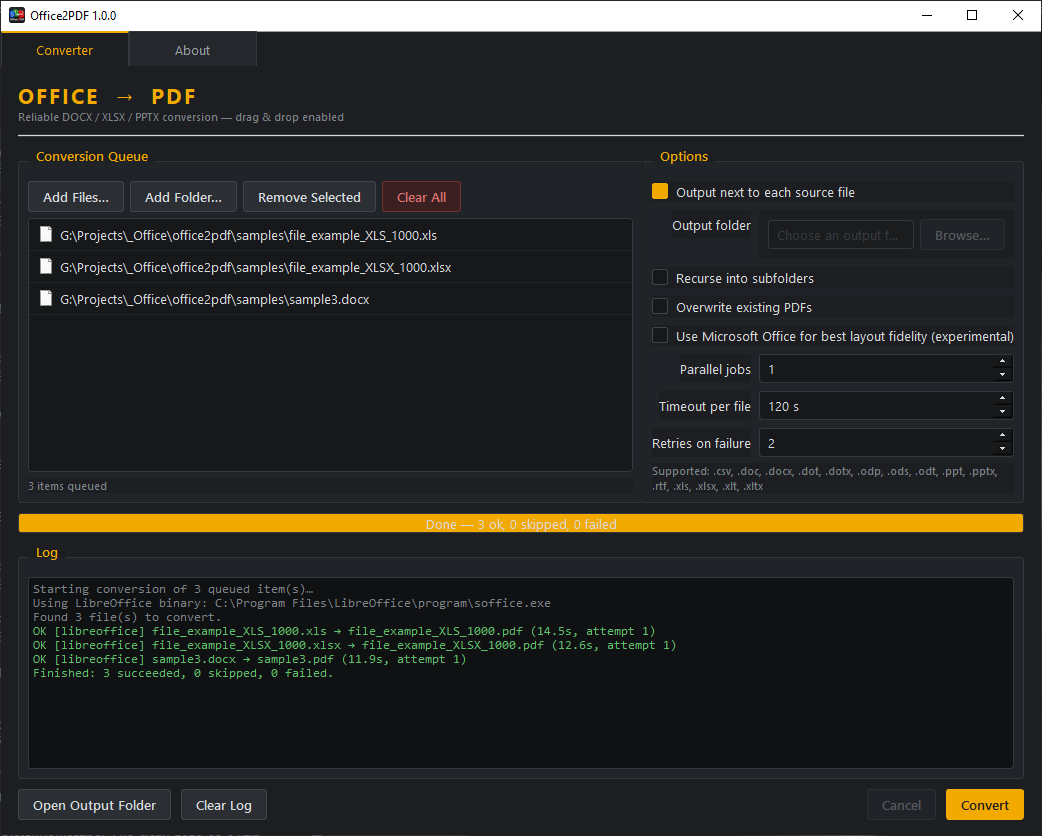
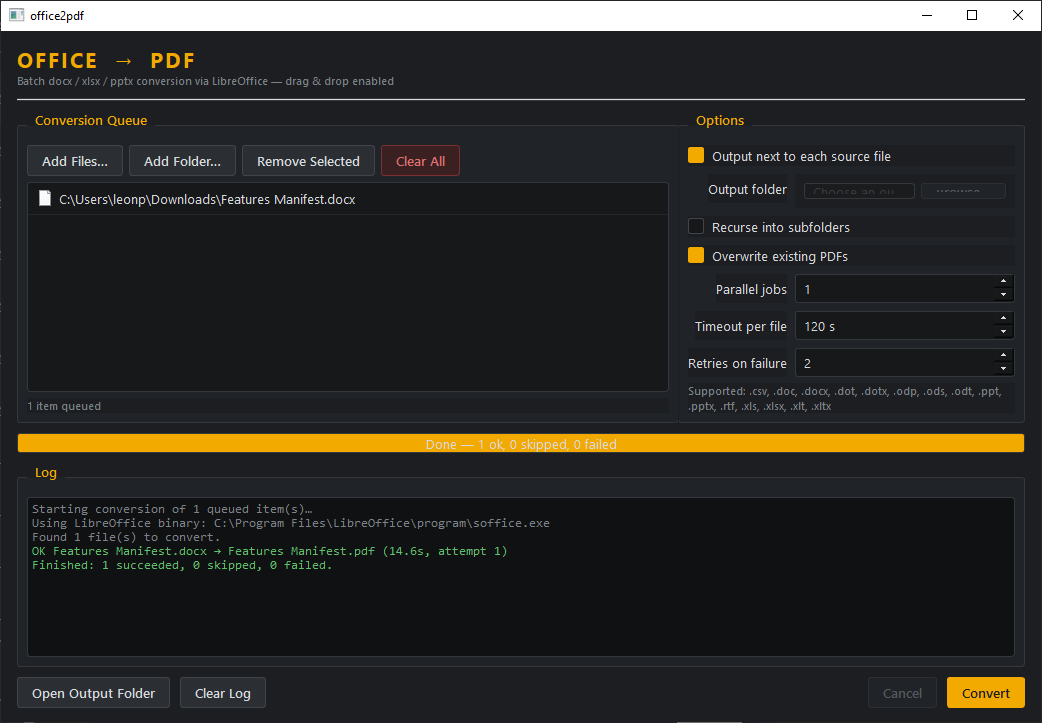
Add files via upload

diff --git a/package_source.py b/package_source.py
@@ -1,5 +1,5 @@
 #!/usr/bin/env python3
-# Copyright (C) 2026 Leon
+# Copyright (C) 2026 Leon Priest
 # SPDX-License-Identifier: GPL-3.0-or-later
 
 """Create the corresponding-source archive shipped with Office2PDF releases."""
@@ -13,7 +13,11 @@ from zipfile import ZIP_DEFLATED, ZipFile
 from version_info import APP_VERSION
 
 PROJECT_ROOT = Path(__file__).resolve().parent
-SOURCE_PATHS = (
+
+# Root-level source, build, legal, and user-facing files that are required
+# for a complete corresponding-source release.
+SOURCE_FILES = (
+    ".gitignore",
     "gui.py",
     "office2pdf.py",
     "native_office_worker.py",
@@ -32,11 +36,37 @@ SOURCE_PATHS = (
     "THIRD_PARTY_NOTICES.txt",
     "SOURCE_OFFER.txt",
     "README.md",
-    "README_cli.md",
     "CHANGELOG.md",
-    "PROFESSIONAL_RELEASE.md",
-    "assets/office2pdf.ico",
 )
+
+# These directories are intentionally recursive so reorganising documentation
+# or adding tests/assets does not require updating a brittle file manifest.
+SOURCE_DIRECTORIES = (
+    "assets",
+    "docs",
+    "tests",
+)
+
+
+def _iter_source_files() -> list[Path]:
+    files: list[Path] = []
+
+    for relative in SOURCE_FILES:
+        source = PROJECT_ROOT / relative
+        if not source.is_file():
+            raise FileNotFoundError(f"required source file missing: {relative}")
+        files.append(source)
+
+    for relative in SOURCE_DIRECTORIES:
+        directory = PROJECT_ROOT / relative
+        if not directory.is_dir():
+            raise FileNotFoundError(f"required source directory missing: {relative}")
+        files.extend(path for path in directory.rglob("*") if path.is_file())
+
+    return sorted(
+        set(files),
+        key=lambda path: path.relative_to(PROJECT_ROOT).as_posix().casefold(),
+    )
 
 
 def create_source_archive(output: Path) -> Path:
@@ -45,15 +75,9 @@ def create_source_archive(output: Path) -> Path:
     root_name = f"Office2PDF-{APP_VERSION}-source"
 
     with ZipFile(output, "w", compression=ZIP_DEFLATED, compresslevel=9) as archive:
-        for relative in SOURCE_PATHS:
-            source = PROJECT_ROOT / relative
-            if not source.is_file():
-                raise FileNotFoundError(f"required source file missing: {relative}")
+        for source in _iter_source_files():
+            relative = source.relative_to(PROJECT_ROOT).as_posix()
             archive.write(source, f"{root_name}/{relative}")
-
-        tests_dir = PROJECT_ROOT / "tests"
-        for source in sorted(tests_dir.glob("test_*.py"), key=lambda p: p.name.casefold()):
-            archive.write(source, f"{root_name}/tests/{source.name}")
 
     return output
 

diff --git a/tests/test_professional_release.py b/tests/test_professional_release.py
@@ -24,10 +24,14 @@ class ProfessionalReleaseTests(unittest.TestCase):
         self.assertEqual(version_info.APP_VERSION_TUPLE, (1, 0, 0, 0))
         self.assertEqual(version_info.SPLASH_DURATION_MS, 5000)
         self.assertEqual(version_info.APP_LICENSE_ID, "GPL-3.0-or-later")
+        self.assertEqual(version_info.APP_AUTHOR, "Leon Priest")
+        self.assertEqual(version_info.APP_COPYRIGHT, "Copyright © 2026 Leon Priest")
 
         version_resource = VERSION_RESOURCE.read_text(encoding="utf-8")
         self.assertIn("filevers=(1, 0, 0, 0)", version_resource)
         self.assertIn("ProductVersion', u'1.0.0'", version_resource)
+        self.assertIn("CompanyName', u'Leon Priest'", version_resource)
+        self.assertIn("Copyright © 2026 Leon Priest", version_resource)
 
     def test_gui_contains_five_second_splash_and_about_tab(self) -> None:
         source = GUI_PATH.read_text(encoding="utf-8")
@@ -42,6 +46,7 @@ class ProfessionalReleaseTests(unittest.TestCase):
         notices = NOTICES_PATH.read_text(encoding="utf-8")
         self.assertIn("GNU GENERAL PUBLIC LICENSE", licence)
         self.assertIn("Version 3, 29 June 2007", licence)
+        self.assertIn("Copyright (C) 2026 Leon Priest", licence)
         self.assertIn("PyQt6", notices)
         self.assertIn("LibreOffice", notices)
         self.assertIn("Microsoft Office", notices)
@@ -72,6 +77,13 @@ class ProfessionalReleaseTests(unittest.TestCase):
         self.assertIn(root + "office2pdf.py", names)
         self.assertIn(root + "native_office_worker.py", names)
         self.assertIn(root + "LICENSE.txt", names)
+        self.assertIn(root + "setup.bat", names)
+        self.assertIn(root + "run.bat", names)
+        self.assertIn(root + "test.bat", names)
+        self.assertIn(root + "docs/CLI_GUIDE.md", names)
+        self.assertIn(root + "docs/PROFESSIONAL_RELEASE.md", names)
+        self.assertIn(root + "docs/images/banner.png", names)
+        self.assertIn(root + "assets/office2pdf.ico", names)
         self.assertIn(root + "tests/test_office2pdf.py", names)
 
 

diff --git a/version_info.py b/version_info.py
@@ -1,4 +1,4 @@
-# Copyright (C) 2026 Leon
+# Copyright (C) 2026 Leon Priest
 # SPDX-License-Identifier: GPL-3.0-or-later
 
 """Centralised Office2PDF release metadata."""
@@ -7,10 +7,10 @@ APP_NAME = "Office2PDF"
 APP_VERSION = "1.0.0"
 APP_VERSION_TUPLE = (1, 0, 0, 0)
 APP_BUILD_DATE = "4 August 2026"
-APP_AUTHOR = "Leon"
+APP_AUTHOR = "Leon Priest"
 APP_DESCRIPTION = "Reliable Office document to PDF conversion for Windows"
 APP_LICENSE_NAME = "GNU General Public License v3.0 or later"
 APP_LICENSE_ID = "GPL-3.0-or-later"
-APP_COPYRIGHT = "Copyright © 2026 Leon"
+APP_COPYRIGHT = "Copyright © 2026 Leon Priest"
 APP_USER_MODEL_ID = "Office2PDF.Desktop.Converter"
 SPLASH_DURATION_MS = 5000

diff --git a/office2pdf.py b/office2pdf.py
@@ -1,5 +1,5 @@
 #!/usr/bin/env python3
-# Copyright (C) 2026 Leon
+# Copyright (C) 2026 Leon Priest
 # SPDX-License-Identifier: GPL-3.0-or-later
 
 """Reliable Office document to PDF conversion with safe backend isolation.

diff --git a/native_office_worker.py b/native_office_worker.py
@@ -1,5 +1,5 @@
 #!/usr/bin/env python3
-# Copyright (C) 2026 Leon
+# Copyright (C) 2026 Leon Priest
 # SPDX-License-Identifier: GPL-3.0-or-later
 
 """Isolated Microsoft Office PDF export worker.

diff --git a/gui.py b/gui.py
@@ -1,5 +1,5 @@
 #!/usr/bin/env python3
-# Copyright (C) 2026 Leon
+# Copyright (C) 2026 Leon Priest
 # SPDX-License-Identifier: GPL-3.0-or-later
 
 """

diff --git a/README.md b/README.md
@@ -6,10 +6,6 @@ A Windows-friendly desktop converter for DOC/DOCX, XLS/XLSX, PPT/PPTX and other 
 
 The primary target is a dependable Windows 11 application for ordinary users: add a file, choose an output location, and create a PDF without risking an existing good copy.
 
-<img width="1042" height="836" alt="screenshot" src="https://github.com/user-attachments/assets/9d208186-b0c1-4b33-8fcf-08a4fa7f51c1" />
-
----
-
 ## Current safety model
 
 **LibreOffice is the default backend.** Each conversion uses an isolated profile and a private staging directory. The staged result must pass PDF sanity checks before `os.replace()` atomically commits it to the final destination.
@@ -38,7 +34,7 @@ An optional Microsoft Office backend is available on Windows for closer Word/Exc
 ## Windows development setup
 
 1. Install 64-bit Python 3.11.
-2. Install LibreOffice. `Libre_Office_Link.txt` points to the official download page.
+2. Install LibreOffice. `docs/Libre_Office_Link.txt` points to the official download page.
 3. Double-click `setup.bat`.
 4. Double-click `test.bat`.
 5. Double-click `run.bat`.
@@ -69,12 +65,12 @@ The first release intentionally uses PyInstaller one-folder mode because it is e
 
 Leave **Use Microsoft Office for best layout fidelity (experimental)** unchecked for Dad's first LibreOffice-only test.
 
-After that path is proven, follow `WINDOWS_VALIDATION_CHECKLIST.md` to test native Word and Excel export. `test.bat` contains real end-to-end Word and Excel tests that automatically run when Windows, pywin32, LibreOffice and the matching Office application are present.
+After that path is proven, follow `docs/WINDOWS_VALIDATION_CHECKLIST.md` to test native Word and Excel export. `test.bat` contains real end-to-end Word and Excel tests that automatically run when Windows, pywin32, LibreOffice and the matching Office application are present.
 
 ## Verification completed in this environment
 
 - Python compilation passed for the backend, GUI, native worker and tests.
-- Local suite: 29 tests, 21 passed and 8 platform-specific skipped. On Windows without Office, expect 20 passed and 9 Office/platform-specific skips.
+- Current suite: 37 tests. On a Windows machine with Word, Excel and LibreOffice available, expect 36 passes and one platform-only skip; unavailable native applications are skipped explicitly.
 - The native timeout regression returned at the configured process deadline rather than waiting for the worker to finish.
 - Native failure-to-LibreOffice fallback passed.
 - Real DOCX and XLSX files converted concurrently through actual LibreOffice.
@@ -87,14 +83,15 @@ The remaining boundary is genuine Windows validation of COM automation and the P
 - `gui.py` — PyQt6 desktop interface
 - `office2pdf.py` — conversion backend and CLI
 - `native_office_worker.py` — isolated Microsoft Office COM worker
-- `tests/test_office2pdf.py` — mocked and real end-to-end regression tests
+- `tests/` — mocked, branding, professional-release and real end-to-end regression tests
 - `setup.bat`, `run.bat`, `test.bat` — Windows development workflow
 - `build_exe.bat` — test-gated Windows build with embedded application icon
 - `assets/office2pdf.ico` — title-bar, taskbar, executable and shortcut icon
+- `docs/` — CLI guide, validation procedures, reliability reports and documentation images
 - `create_shortcuts.bat` — creates Desktop and Start Menu shortcuts for the built release
-- `WINDOWS_VALIDATION_CHECKLIST.md` — target-PC proving steps
-- `REVIEW_FINDINGS.md` — findings from the incoming native-backend update
-- `RELIABILITY_REPORT.md` — consolidated technical status
+- `docs/WINDOWS_VALIDATION_CHECKLIST.md` — target-PC proving steps
+- `docs/REVIEW_FINDINGS.md` — findings from the incoming native-backend update
+- `docs/RELIABILITY_REPORT.md` — consolidated technical status
 
 ## Licence
 

diff --git a/CHANGELOG.md b/CHANGELOG.md
@@ -2,6 +2,7 @@
 
 ## 1.0.0 — 4 August 2026
 
+- Corrected all author, copyright and Windows metadata attribution to the full name **Leon Priest**.
 - Added a five-second branded Office2PDF splash screen.
 - Added a professional About tab with overview, version, author, build date, licence and third-party notices.
 - Added Windows file-version resources for both executables.
@@ -9,6 +10,8 @@
 - Added bundled licence notices and an automatically generated corresponding-source archive.
 - Replaced the shortcut creator with the no-PowerShell, release-folder-validating implementation.
 - Expanded the suite to 37 tests.
+- Consolidated technical documentation under `docs/` and documentation artwork under `docs/images/`.
+- Made corresponding-source packaging recursive for `assets/`, `docs/`, and `tests/` so future file organisation changes do not require a brittle manifest update.
 
 ## Branded icon integration — 2026-08-04
 

diff --git a/docs/PROFESSIONAL_RELEASE.md b/docs/PROFESSIONAL_RELEASE.md
@@ -5,7 +5,7 @@ Build date: 4 August 2026
 ## New user-facing features
 
 - Five-second branded startup splash matching the supplied dark navy and amber artwork.
-- Animated loading indicator with the Office2PDF icon, release version and Leon credit.
+- Animated loading indicator with the Office2PDF icon, release version and Leon Priest credit.
 - New top-level `About` tab.
 - Overview, full GPL licence and third-party notices are readable inside the application.
 - Version 1.0.0 and build date are displayed consistently.
